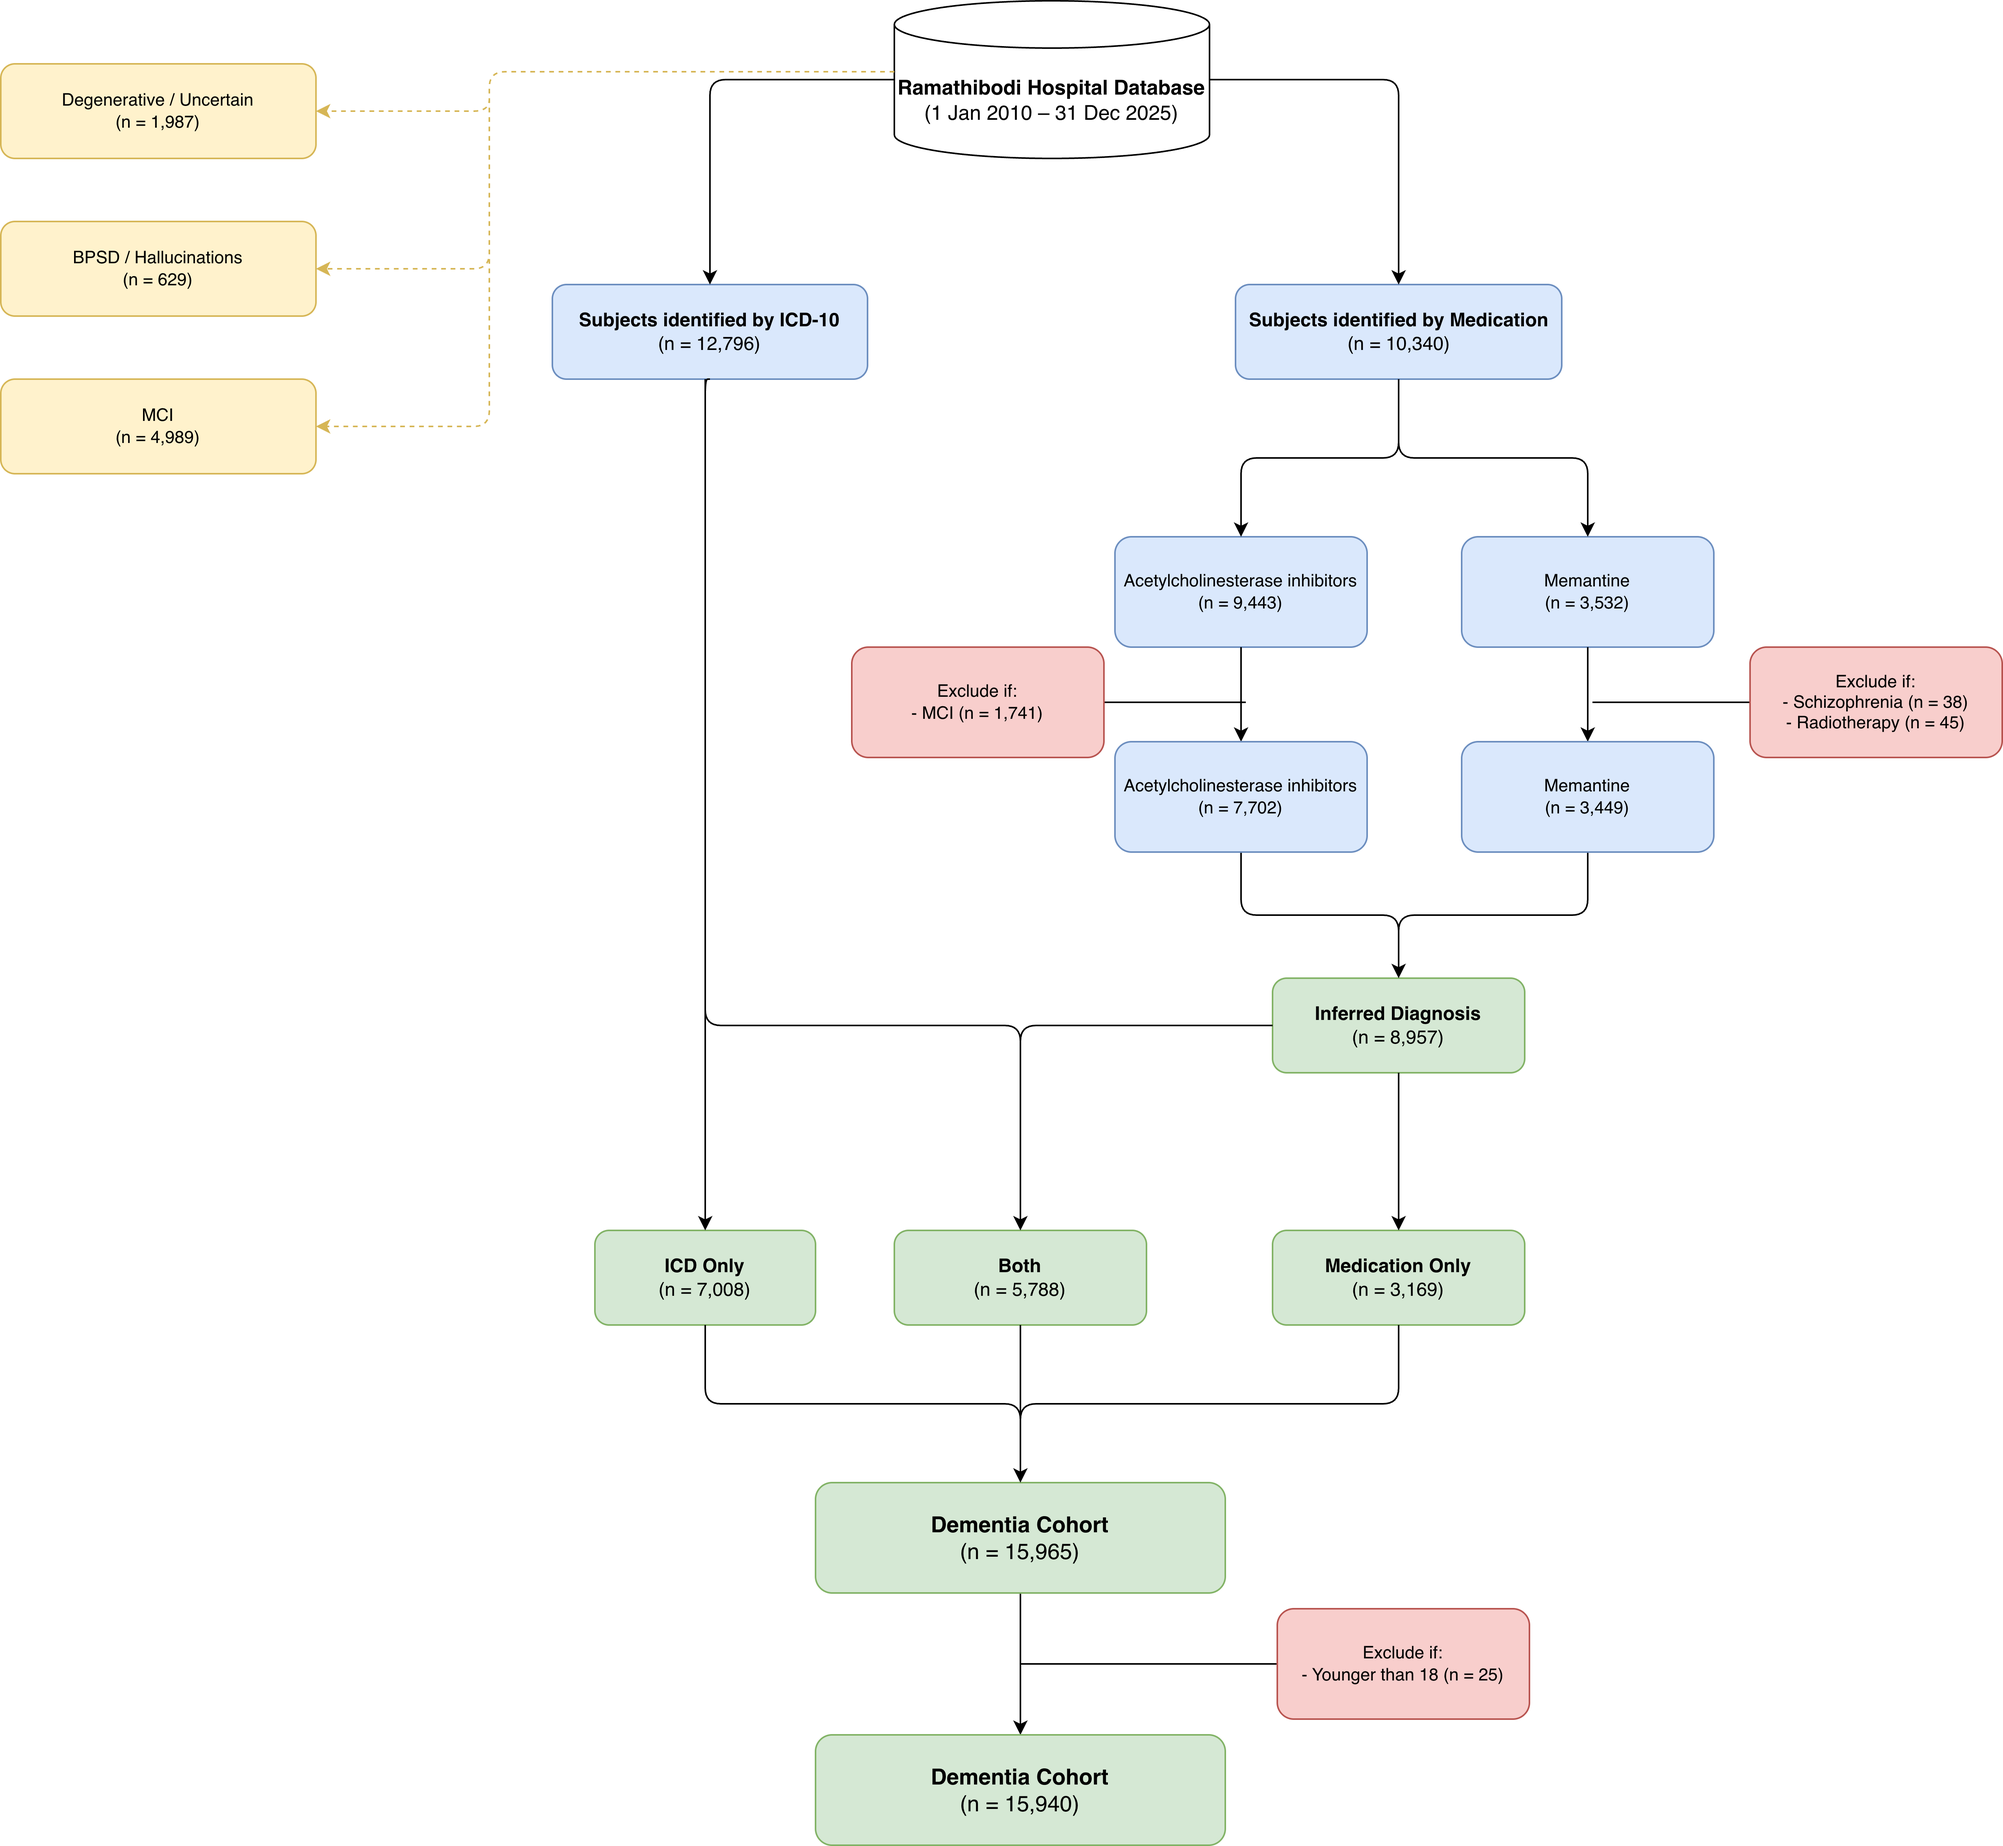
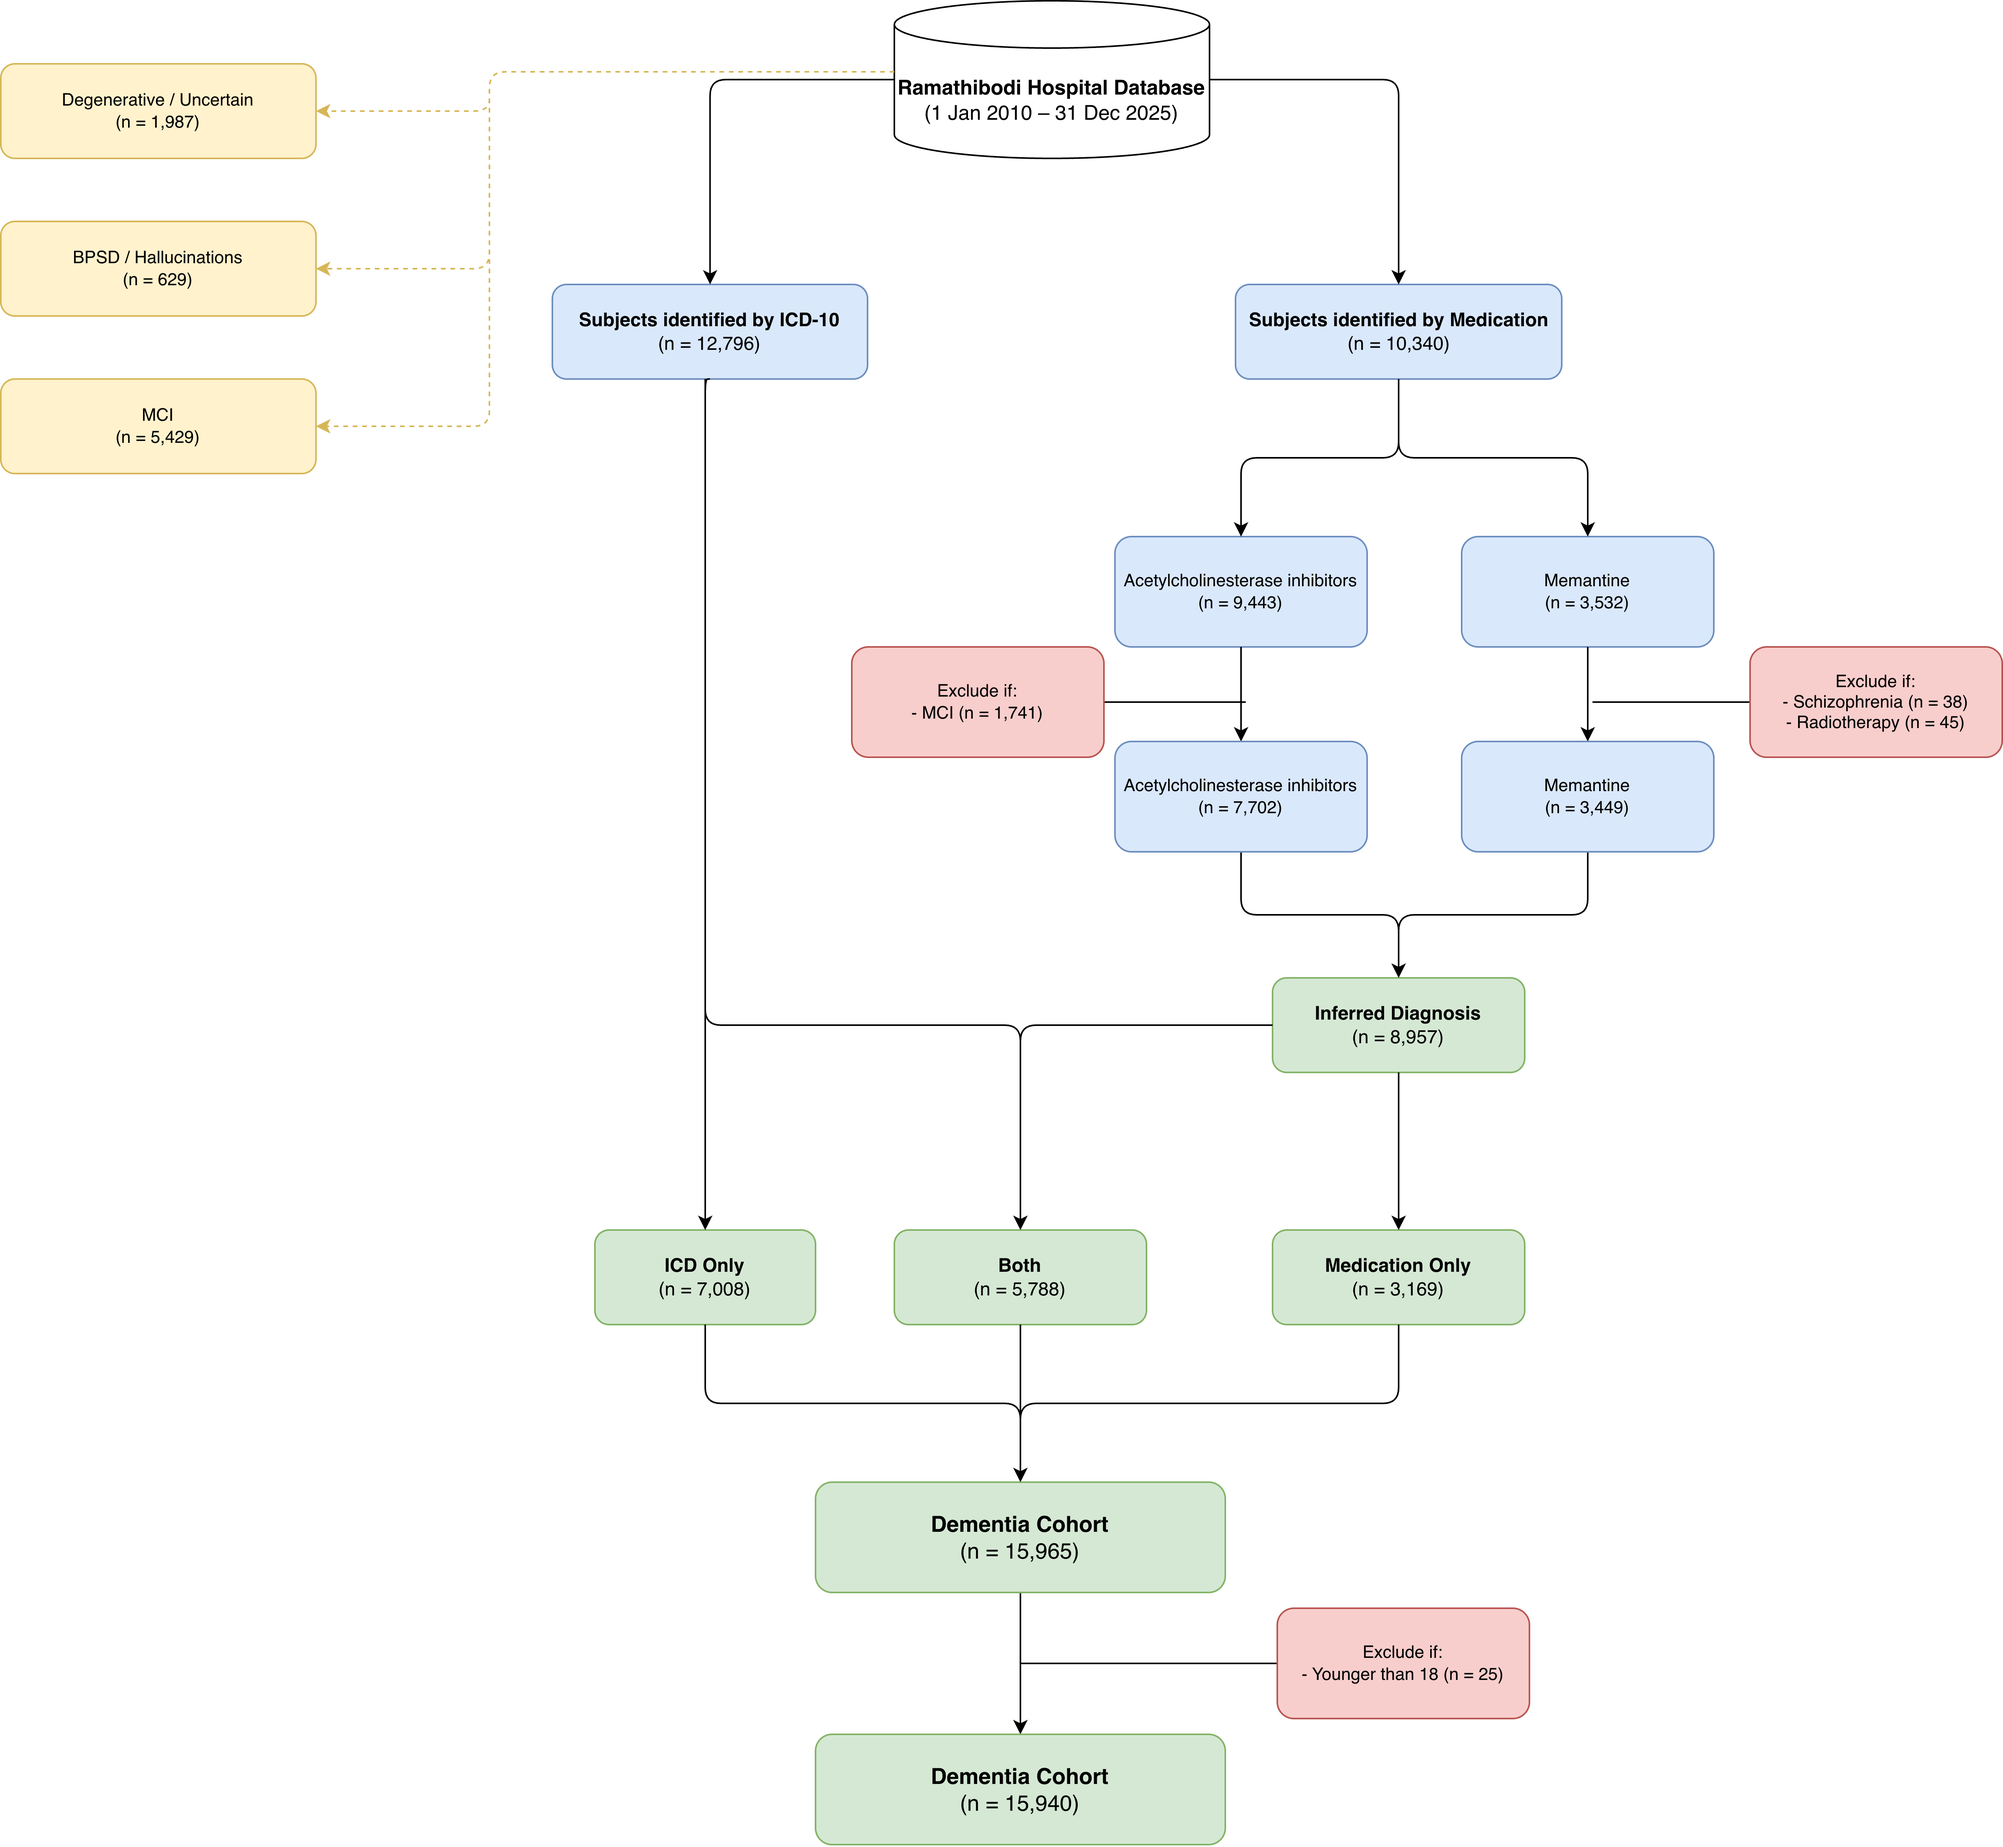
MCI checking prefix

diff --git a/cohort_identification.md b/cohort_identification.md
@@ -242,11 +242,11 @@ These codes cover mild cognitive impairment and related conditions. They are ide
 | R41 | Other symptoms and signs involving cognitive functions and awareness |
 | R418 | Other and unspecified symptoms and signs involving cognitive functions and awareness |
 
-| Code Group   | Exclusion Note   | (n = 4989)     |
+| Code Group   | Exclusion Note   | (n = 5429)     |
 |--------------|------------------|----------------|
-| F067         | —                | 4826 (96.73%)  |
-| R41*         | —                | 762 (14.04%)   |
-| R418         | —                | 219 (4.39%)    |
+| F067         | —                | 4826 (88.89%) |
+| R41*         | —                | 762 (14.04%)  |
+| R418         | —                | 219 (4.03%)   |
 
 The mapping table of MCI-related ICD-10-TM codes can be found in the maplist folder [here](maplist/cohort/review_code_map.csv).
 
